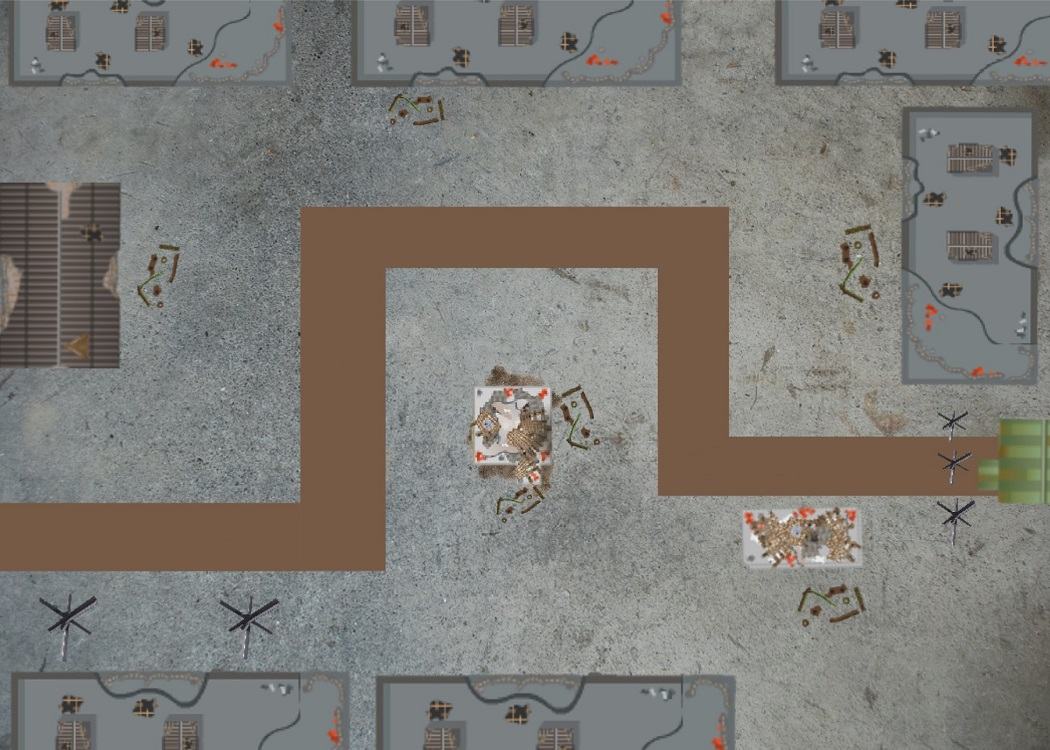
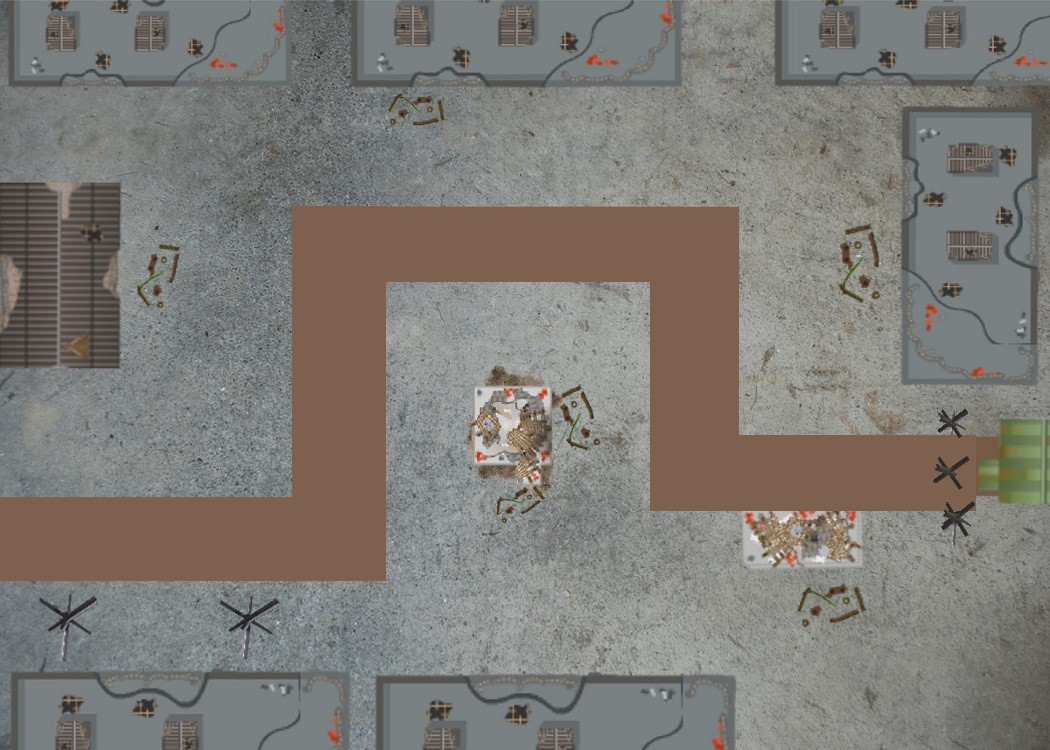
chance

diff --git a/fullGame2.py b/fullGame2.py
@@ -64,7 +64,7 @@ mixer.init()
 place_sound = mixer.Sound("FSE-Assets/sound/placeSound.wav")
 #gun_sound = mixer.Sound(
 
-money=6000
+money=0
 score=0
 pause=False
 '''
@@ -222,20 +222,75 @@ def moveEnemy(screen,enemy):
 def moveEnemy2(screen,enemy):
     count=-1
     for i in enemy:
-        if i[0]<315:
+        enemyRect=Rect(i[0],i[1],20,10)
+        draw.rect(screen,RED,enemyRect,2)
+
+    for i in enemy:
+        if i[0]<300:
             i[0]+=i[3].speed
             i[2]=0
-        if i[0]>=315 and i[1]>210:
+        if i[0]>=300 and i[1]>220:
             i[1]-=i[3].speed
             i[2]=2
-        if i[1]<=210 and i[0]<720:
+
+        count+=1
+        screen.blit(pics[count][i[2]],i[:2])
+
+def moveEnemy3(screen,enemy):
+    count=-1
+    for i in enemy:
+        if i[0]<370:
             i[0]+=i[3].speed
             i[2]=0
-        if i[0]>=690 and i[1]<=670:
-            i[1]+=i[3].speed*2
+        if i[0]>=370 and i[1]>210:
+            i[1]-=i[3].speed
+            i[2]=2
+        if i[1]<=210:
+            i[0]+=i[3].speed
+            i[2]=0
+            
+        count+=1
+        screen.blit(pics[count][i[2]],i[:2])
+
+def moveEnemy4(screen,enemy):
+    count=-1
+    for i in enemy:
+        if i[0]<300:
+            i[0]+=i[3].speed
+            i[2]=0
+        if i[0]>=300 and i[1]>210:
+            i[1]-=i[3].speed
+            i[2]=2
+        if i[0]<=670 and i[1]<=210:
+            i[0]+=i[3].speed
+            i[2]=0
+        if i[0]>=670 and i[1]<670:
+            i[1]+=i[3].speed
             i[2]=1
-        if i[1]>=670 and i[0]==690:
-            i[0]+=i[3].speed*2
+        if i[1]>=670 and i[0]==670:
+            i[0]+=i[3].speed
+            i[2]=0
+            
+        count+=1
+        screen.blit(pics[count][i[2]],i[:2])
+
+def moveEnemy5(screen,enemy):
+    count=-1
+    for i in enemy:
+        if i[0]<300:
+            i[0]+=i[3].speed
+            i[2]=0
+        if i[0]>=300 and i[1]>210:
+            i[1]-=i[3].speed
+            i[2]=2
+        if i[0]<=670 and i[1]<=210:
+            i[0]+=i[3].speed
+            i[2]=0
+        if i[0]>=670 and i[1]<670:
+            i[1]+=i[3].speed
+            i[2]=1
+        if i[1]>=670 and i[0]==670:
+            i[0]+=i[3].speed
             i[2]=0
             
         count+=1
@@ -285,9 +340,6 @@ def prep(screen,towerPos):
     txtS4=txtFont2.render("Bunker - Damage:",True,BLACK)
     txtS5=txtFont2.render("Fortress - Damage:",True,BLACK)
     txtS6=txtFont2.render("Heavy AT Gun - Damage:",True,BLACK)
-
-
-
     towerDescription=[txtD1,txtD2,txtD3,txtD4,txtD5,txtD6]
     towerStats=[txtS1,txtS2,txtS3,txtS4,txtS5,txtS6]
     
@@ -374,8 +426,6 @@ def prep(screen,towerPos):
                 screen.blit(txtUpgrade,(650,670))
                 screen.blit(txtuCost,(763,670))
                 screen.blit(cancelPic,(20,125))
-                
-
                                     
                 cancelRect=Rect(20,125,125,30)
                 deleteRect=Rect(150,125,125,30)
@@ -408,6 +458,7 @@ def upgrade():
                 defenses[i].damage+=10*(i+1)
             
 '''
+'''
 def checkRange(enemy,activeDefense):
     global money
     for i in towerPos:
@@ -424,6 +475,7 @@ def checkRange(enemy,activeDefense):
 ##                money+=enemy[i][PRIZE]
 ##                print(money)
 ##                del enemy[i]
+'''
 def prev1():
     running=True
     mixer.music.load("FSE-Assets/sound/startMusic2.mp3")
@@ -549,6 +601,7 @@ def lev1():
     global click
     global gameOver
 
+    money=4500
     running=True
     myclock=time.Clock()
     mixer.music.load("FSE-Assets/sound/bgMusic.mp3")
@@ -613,8 +666,8 @@ def lev1():
             endScreen.fill((220,220,220,127))
             screen.blit(endScreen,(0,0))
             screen.blit(loseRect,(320,225))
-            retryRect=Rect(330,380,128,50)
-            mainRect=Rect(490,380,187,50)
+            retryRect=Rect(350,405,128,50)
+            mainRect=Rect(510,405,187,50)
             draw.rect(screen,RED,(945,375,100,10),0)
 
             mixer.music.stop()
@@ -656,15 +709,17 @@ def lev2():
     global click
     global gameOver
 
+    money=6000
+
     running=True
     myclock=time.Clock()
     mixer.music.load("FSE-Assets/sound/bgMusic.mp3")
     mixer.music.play(-1)
     quitRect=Rect(260,25,150,40)
-    towerPos2=[[Rect(75,430,50,50),False,(75,430),False,1,None],[Rect(225,430,50,50),False,(225,430),False,2,None],
-               [Rect(225,300,50,50),False,(225,300),False,3,None],[Rect(225,125,50,50),False,(225,125),False,4,None],
+    towerPos2=[[Rect(75,430,50,50),False,(75,430),False,1,None],[Rect(210,430,50,50),False,(210,430),False,2,None],
+               [Rect(210,300,50,50),False,(210,300),False,3,None],[Rect(225,125,50,50),False,(225,125),False,4,None],
                [Rect(425,125,50,50),False,(425,125),False,5,None],[Rect(600,125,50,50),False,(600,125),False,6,None],
-               [Rect(425,300,50,50),False,(425,300),False,7,None],[Rect(600,300,50,50),False,(600,300),False,8,None],
+               [Rect(425,300,50,50),False,(425,300),False,7,None],[Rect(560,300,50,50),False,(560,300),False,8,None],
                [Rect(750,275,50,50),False,(750,275),False,9,None],[Rect(825,375,50,50),False,(825,375),False,10,None]]
     enemy=[[-100,500,0,heavyTank],[-200,500,0,heavyTank],[-300,500,0,heavyTank],[-400,500,0,heavyTank],[-500,500,0,heavyTank]]
     while running:
@@ -715,9 +770,9 @@ def lev2():
             endScreen=Surface((width,height),SRCALPHA)
             endScreen.fill((220,220,220,127))
             screen.blit(endScreen,(0,0))
-            screen.blit(loseRect,(300,200))
-            retryRect=Rect(330,380,128,50)
-            mainRect=Rect(490,380,187,50)
+            screen.blit(loseRect,(320,225))
+            retryRect=Rect(350,405,128,50)
+            mainRect=Rect(510,405,187,50)
             draw.rect(screen,RED,(945,375,100,10),0)
             if retryRect.collidepoint(mx,my):
                 draw.rect(screen,RED,retryRect,3)
@@ -752,6 +807,9 @@ def lev3():
     global money
     global score
     global click
+    global gameOver
+
+    money=7000
     running=True
     myclock=time.Clock()
     mixer.music.load("FSE-Assets/sound/bgMusic.mp3")
@@ -762,6 +820,8 @@ def lev3():
                [Rect(274,136,50,50),False,(274,136),False,5,None],[Rect(450,136,50,50),False,(450,136),False,6,None],
                [Rect(474,325,50,50),False,(474,325),False,7,None],[Rect(630,305,50,50),False,(630,305),False,8,None],
                [Rect(700,136,50,50),False,(700,136),False,11,None]]
+
+    enemy=[[-100,480,0,heavyTank],[-250,480,0,heavyTank],[-400,480,0,heavyTank],[-650,480,0,heavyTank],[-800,480,0,heavyTank]]
     while running:
         myclock.tick(60)
         drawScene3(screen)
@@ -799,6 +859,44 @@ def lev3():
                 return "levelSelect"
         if ready==False:
             prep(screen,towerPos3)
+
+        if ready==True and gameOver==False:
+            genEnemies(enemy)
+            moveEnemy3(screen,enemy)
+            baseHealth(enemy)
+
+        if gameOver:
+            endScreen=Surface((width,height),SRCALPHA)
+            endScreen.fill((220,220,220,127))
+            screen.blit(endScreen,(0,0))
+            screen.blit(loseRect,(320,225))
+            retryRect=Rect(350,405,128,50)
+            mainRect=Rect(510,405,187,50)
+            draw.rect(screen,RED,(945,375,100,10),0)
+            if retryRect.collidepoint(mx,my):
+                draw.rect(screen,RED,retryRect,3)
+                if mb[0]==1:
+                    defC=None
+                    editCond=False
+                    activeDefenses=[]
+                    running=False
+                    ready=False
+                    gameOver=False
+                    money=2000
+                    score=0
+                    return "lev3"
+            if mainRect.collidepoint(mx,my):
+                draw.rect(screen,RED,mainRect,3)
+                if mb[0]==1:
+                    defC=None
+                    editCond=False
+                    activeDefenses=[]
+                    running=False
+                    ready=False
+                    gameOver=False
+                    money=7000
+                    score=0
+                    
         display.flip()
     return "levelSelect"
 
@@ -809,6 +907,9 @@ def lev4():
     global money
     global score
     global click
+    global gameOver
+
+    money=8500
     running=True
     myclock=time.Clock()
     mixer.music.load("FSE-Assets/sound/bgMusic.mp3")
@@ -855,6 +956,43 @@ def lev4():
                 return "levelSelect"
         if ready==False:
             prep(screen,towerPos4)
+
+        if ready==True and gameOver==False:
+            genEnemies(enemy)
+            moveEnemy3(screen,enemy)
+            baseHealth(enemy)
+
+        if gameOver:
+            endScreen=Surface((width,height),SRCALPHA)
+            endScreen.fill((220,220,220,127))
+            screen.blit(endScreen,(0,0))
+            screen.blit(loseRect,(320,225))
+            retryRect=Rect(350,405,128,50)
+            mainRect=Rect(510,405,187,50)
+            draw.rect(screen,RED,(945,375,100,10),0)
+            if retryRect.collidepoint(mx,my):
+                draw.rect(screen,RED,retryRect,3)
+                if mb[0]==1:
+                    defC=None
+                    editCond=False
+                    activeDefenses=[]
+                    running=False
+                    ready=False
+                    gameOver=False
+                    money=2000
+                    score=0
+                    return "lev4"
+            if mainRect.collidepoint(mx,my):
+                draw.rect(screen,RED,mainRect,3)
+                if mb[0]==1:
+                    defC=None
+                    editCond=False
+                    activeDefenses=[]
+                    running=False
+                    ready=False
+                    gameOver=False
+                    money=8500
+                    score=0
         display.flip()
     return "levelSelect"
 
@@ -865,6 +1003,9 @@ def lev5():
     global money
     global score
     global click
+    global gameOver
+
+    money=10000
     running=True
     myclock=time.Clock()
     mixer.music.load("FSE-Assets/sound/bgMusic.mp3")
@@ -912,6 +1053,43 @@ def lev5():
                 return "levelSelect"
         if ready==False:
             prep(screen,towerPos5)
+
+        if ready==True and gameOver==False:
+            genEnemies(enemy)
+            moveEnemy5(screen,enemy)
+            baseHealth(enemy)
+
+        if gameOver:
+            endScreen=Surface((width,height),SRCALPHA)
+            endScreen.fill((220,220,220,127))
+            screen.blit(endScreen,(0,0))
+            screen.blit(loseRect,(320,225))
+            retryRect=Rect(350,405,128,50)
+            mainRect=Rect(510,405,187,50)
+            draw.rect(screen,RED,(945,375,100,10),0)
+            if retryRect.collidepoint(mx,my):
+                draw.rect(screen,RED,retryRect,3)
+                if mb[0]==1:
+                    defC=None
+                    editCond=False
+                    activeDefenses=[]
+                    running=False
+                    ready=False
+                    gameOver=False
+                    money=2000
+                    score=0
+                    return "lev5"
+            if mainRect.collidepoint(mx,my):
+                draw.rect(screen,RED,mainRect,3)
+                if mb[0]==1:
+                    defC=None
+                    editCond=False
+                    activeDefenses=[]
+                    running=False
+                    ready=False
+                    gameOver=False
+                    money=10000
+                    score=0
         display.flip()
     return "levelSelect"
 
